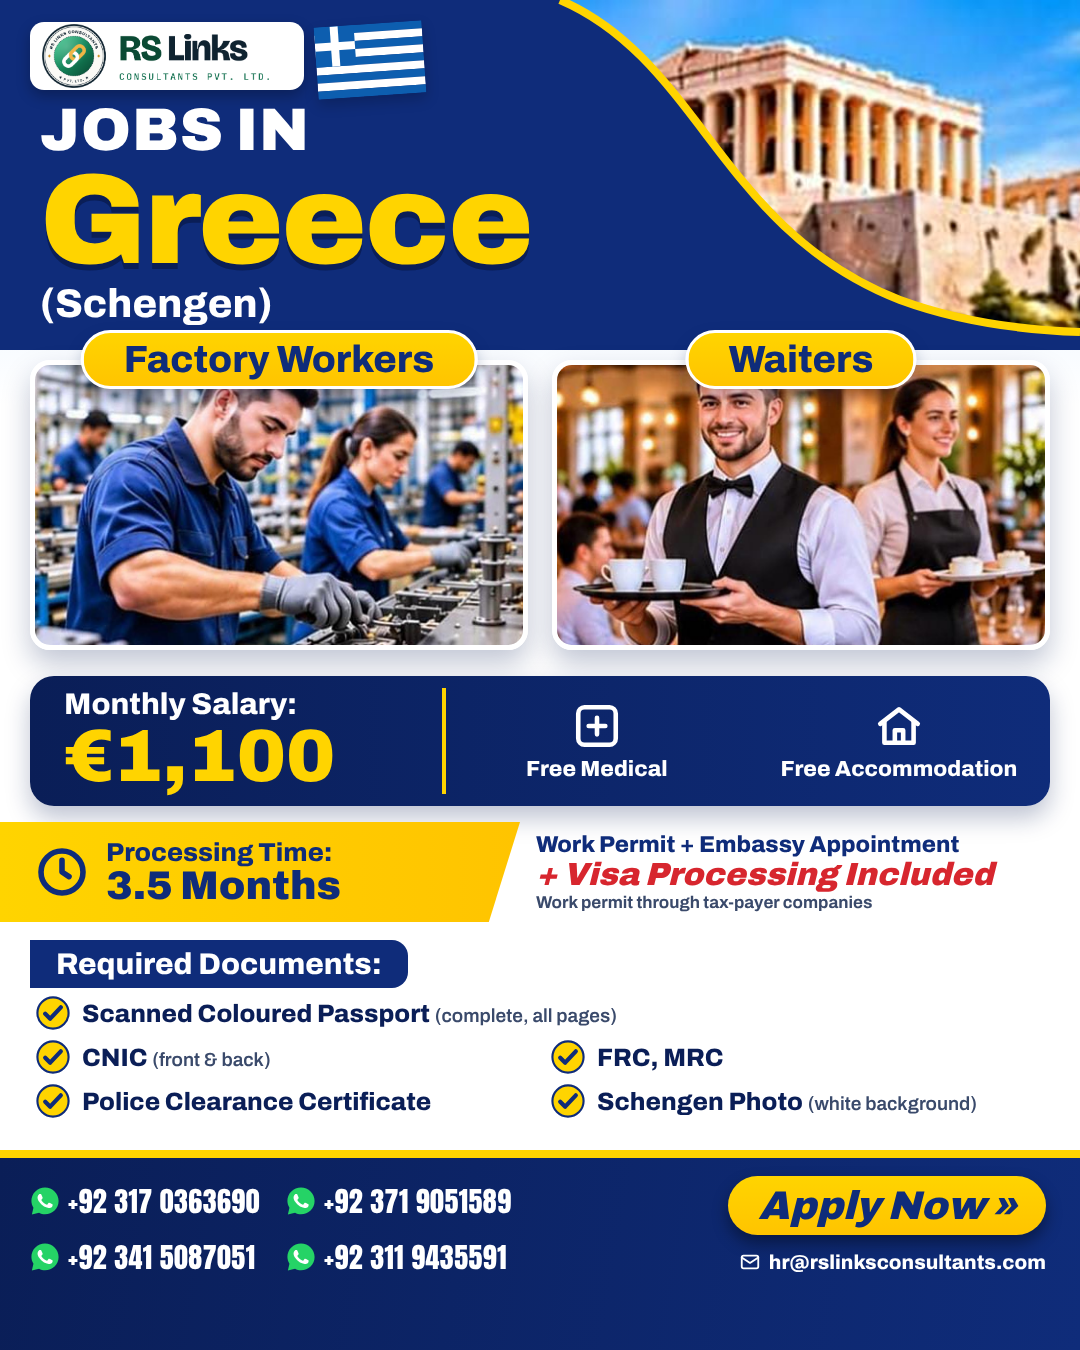
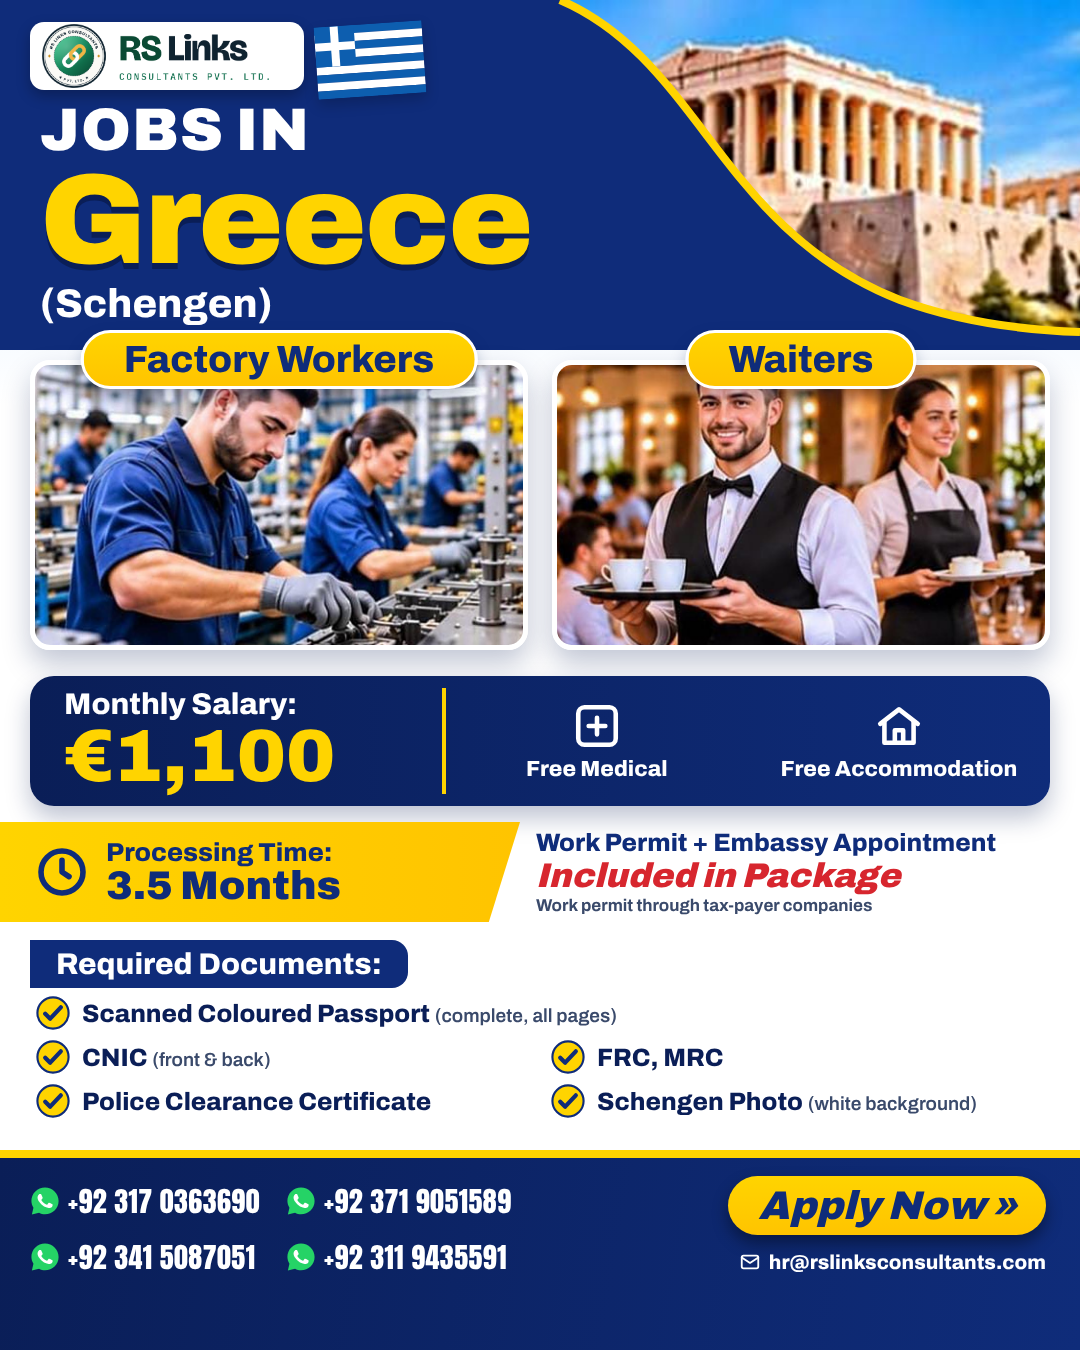
Greece v5: remove visa wording; add no-visa rule for all ads
Claude-Session: https://claude.ai/code/session_01YJ5ofgU8QCiWTsYR9pvXG4

Changed region(s): [[0.4889, 0.6222, 0.9472, 0.6844]]

diff --git a/src/greece_factory_waiters_v5.py b/src/greece_factory_waiters_v5.py
@@ -3,8 +3,8 @@ asked to use it as the reference and update our ad. Layout follows the reference
 navy curved title panel (JOBS IN / Greece / (Schengen)), two photo panels with yellow labels, navy salary bar with free
 medical + accommodation, yellow processing strip + package line, required-documents checklist, navy Apply Now footer.
 Facts: €1,100/month; free medical; free accommodation; work permit (tax-payer companies) + walk-in embassy appointment +
-visa processing in package; processing 3.5 months (user's figure — the reference says 2–3); documents from the reference.
-Dropped from reference: slogans ("Build your better future", "Your dream job awaits"), "Work Visa Included" reworded to
+no "visa" wording (user rule); processing 3.5 months (user's figure — the reference says 2–3); documents from the reference.
+Dropped from reference: slogans ("Build your better future", "Your dream job awaits"), "Work Visa Included" removed —
 visa processing (the visa itself is the embassy's decision). Photos cropped from the reference (user-approved)."""
 from common import PHONES, PHOTOS, font_css, icon, logo_img, render, whatsapp_icon
 from greece_ecycle import flag_gr
@@ -52,8 +52,8 @@ def build():
 <div class='abs' style='top:822px;left:0;right:0;height:100px;display:flex;align-items:center'>
  <div style='width:520px;height:100%;background:linear-gradient(90deg,{YEL},{YEL2});clip-path:polygon(0 0,100% 0,94% 100%,0 100%);display:flex;align-items:center;gap:16px;padding-left:34px;box-sizing:border-box'>
   {icon('clock', 56, NAVY, 2.4)}<div><div style='font:800 26px Archivo;color:{NAVY}'>Processing Time:</div><div style='font:900 40px Archivo;color:{NAVY};line-height:1'>3.5 Months</div></div></div>
- <div style='flex:1;padding-left:16px'><div style='font:800 23px Archivo;color:{NAVY}'>Work Permit + Embassy Appointment</div>
-  <div style='font:italic 900 32px Archivo;color:{RED};line-height:1.15'>+ Visa Processing Included</div>
+ <div style='flex:1;padding-left:16px'><div style='font:800 25px Archivo;color:{NAVY}'>Work Permit + Embassy Appointment</div>
+  <div style='font:italic 900 34px Archivo;color:{RED};line-height:1.15'>Included in Package</div>
   <div style='font:700 17px Archivo;color:#3A4A6B'>Work permit through tax-payer companies</div></div></div>
 
 <div class='abs' style='top:940px;left:30px;background:{NAVY};border-radius:0 16px 16px 0;padding:8px 26px;font:800 30px Archivo;color:#fff'>Required Documents:</div>

diff --git a/CLAUDE.md b/CLAUDE.md
@@ -49,6 +49,8 @@ TODO — confirm/adjust. Defaults until specified otherwise:
 - All ad text must be large and high-contrast enough to read on a phone (body ≥ 17px, labels
   ≥ 14px on a 1080px canvas).
 - Never reuse photos from other agencies' ads (they are content sources only).
+- **Never write the word "visa" on any ad** (user, 2026-11-13). Describe the package without it
+  (e.g. "Work Permit + Embassy Appointment included", "Ticket + Protector included").
 - **Vary the design every time** (user, 2026-10-15: "all ads seem to be in same design and theme").
   Before building, read the last 3–4 rows of `output/design-log.md` and pick a different palette,
   layout family and hero treatment (e.g. full-bleed photo poster, magazine collage, split columns,
